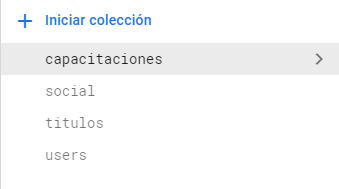
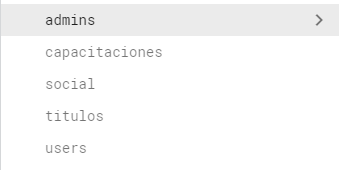
admin

diff --git a/src/app/admin/dashboard/dashboard.component.ts b/src/app/admin/dashboard/dashboard.component.ts
@@ -6,6 +6,7 @@ import { MatSort } from '@angular/material/sort';
 import { MatTableDataSource } from '@angular/material/table';
 import { Subject, combineLatest } from 'rxjs';
 import { Titulos } from 'src/app/shared/interfaces/titulos';
+import { User } from 'src/app/shared/interfaces/user';
 import { AuthService } from 'src/app/shared/services/auth.service';
 import { FirestoreService } from 'src/app/shared/services/firestore.service';
 import { MiscService } from 'src/app/shared/services/misc.service';
@@ -46,8 +47,15 @@ export class DashboardComponent implements OnInit, AfterViewInit {
   ) {}
 
   async ngOnInit(): Promise<void> {
-    this.titulos = await this.firestoreSvc.getTitulos();
-    this.dataSource = new MatTableDataSource(this.titulos);
+    const user: User = JSON.parse(localStorage.getItem('user'));
+    let admin: boolean = await this.miscSvc.getAdmin(user.email);
+    if (admin) {
+      this.titulos = await this.firestoreSvc.getTitulos();
+      this.dataSource = new MatTableDataSource(this.titulos);
+    } else {
+      let hayUnUsuario: string = await this.miscSvc.checkIfUserIsLogged();
+      await this.miscSvc.notAllowed(hayUnUsuario);
+    }
   }
 
   ngAfterViewInit() {
@@ -176,10 +184,10 @@ export class DashboardComponent implements OnInit, AfterViewInit {
     await this.firestoreSvc.eliminarTitulo(titulo);
     let indice: number;
     for (let i = 0; i < this.titulos.length; i++) {
-      if(this.titulos[i].titulo == titulo) {
-        indice = i
+      if (this.titulos[i].titulo == titulo) {
+        indice = i;
         break;
-      } ;
+      }
     }
     console.log(titulo, indice);
     if (indice > -1) {

diff --git a/src/app/admin/dashboard/dashboard.component.html b/src/app/admin/dashboard/dashboard.component.html
@@ -159,7 +159,7 @@
     <mat-card class="col-12 offset-md-2 col-md-8 mb-4">
       <div class="container">
         <mat-form-field>
-          <mat-label>Filter</mat-label>
+          <mat-label>Filtro</mat-label>
           <input matInput (keyup)="applyFilter($event)" placeholder="Ex. Mia" #input>
         </mat-form-field>
       </div>
@@ -266,13 +266,13 @@
         <div class="col-12">
           <div class="row">
             <div class="col-auto ml-4">
-              <input type="file" class="form-control-file" id="inputFile" (change)="convertFile($event)" />
+              <input type="file" class="form-control-file vertical-align" id="inputFile" (change)="convertFile($event)" />
             </div>
             <div class="col-auto">
-              <button (click)="subirArchivo()" class="">Subir</button>
+              <button (click)="subirArchivo()" class="btn vertical-align">Subir</button>
             </div>
             <div class="col-auto">
-              <a [href]="'../../../assets/titulos.csv'">
+              <a [href]="'../../../assets/titulos.csv'" class="vertical-align">
                 Descargue una plantilla para los títulos
               </a>
             </div>

diff --git a/src/app/shared/services/misc.service.ts b/src/app/shared/services/misc.service.ts
@@ -90,6 +90,11 @@ export class MiscService {
     });
   }
 
+  async getAdmin(email): Promise<boolean> {
+    const dataAdmin = await this.angularFirestore.collection('admins').doc(email).get().toPromise();
+    return dataAdmin.exists
+  }
+
   async checkIfUserIsLogged(): Promise<string> {
     await this.getUserFirebase();
     await this.getUserAndUID();
@@ -104,9 +109,7 @@ export class MiscService {
       if (!userFirebase.emailVerified) {
         return 'wait-verification';
       } else {
-        if (user.admin) {
-          return 'admin';
-        } else if (user.empresa && uid) {
+        if (user.empresa && uid) {
           return 'empresa';
         } else if (!user.empresa && uid) {
           return 'egresado';

diff --git a/src/app/admin/agregar-titulo/agregar-titulo.component.html b/src/app/admin/agregar-titulo/agregar-titulo.component.html
@@ -55,7 +55,7 @@
     </div>
     <div class="row">
       <div class="col-6">
-        <mat-form-field class="full-width-height mt-2">
+        <mat-form-field class="full-width-height">
           <mat-label>Año de Egreso</mat-label>
           <mat-select formControlName="yearDeEgreso">
             <mat-option selected="selected" hidden value="">Elija una opción</mat-option>
@@ -84,7 +84,7 @@
     <mat-card-actions class="mb-3">
       <div class="row">
         <div class="alinear-centro mt-4 center">
-          <button type="submit" class="center">Agregar</button>
+          <button type="submit" class="center btn">Agregar</button>
         </div>
       </div>
     </mat-card-actions>

diff --git a/src/app/auth/login/login.component.html b/src/app/auth/login/login.component.html
@@ -54,7 +54,7 @@
       <mat-card-actions class="mb-5">
         <div class="offset-3 col-6">
           <div class="alinear-centro mt-4">
-            <button type="submit" class="btn btn-dark btn-block alinear-centro">Iniciar Sesion</button>
+            <button type="submit" class="btn btn-dark btn-block alinear-centro">Iniciar Sesión</button>
           </div>
         </div>
         <div class="col-12 mt-4">

diff --git a/src/app/admin/dashboard/dashboard.component.scss b/src/app/admin/dashboard/dashboard.component.scss
@@ -92,7 +92,7 @@ tr.mat-row, tr.mat-footer-row {
   -ms-user-select: none;
   user-select: none;
   border: 1px solid transparent;
-  padding: 0.55rem 2.25rem;
+  padding: 0.1rem 2.25rem;
   font-size: 1rem;
   line-height: 1.5;
   border-radius: 1rem;

diff --git a/src/app/admin/agregar-titulo/agregar-titulo.component.scss b/src/app/admin/agregar-titulo/agregar-titulo.component.scss
@@ -71,7 +71,7 @@
   -ms-user-select: none;
   user-select: none;
   border: 1px solid transparent;
-  padding: 0.55rem 2.25rem;
+  padding: 0.5rem 2.75rem;
   font-size: 1rem;
   line-height: 1.5;
   border-radius: 1rem;

diff --git a/README.md b/README.md
@@ -90,7 +90,6 @@ Una vez registrados, ambos tipos de usuario van a poder buscar a otros usuarios 
 - [x] Contacto entre egresados
 - [x] Busqueda de egresados
 - [x] Agregar Experiencias
+- [x] Administrador
 - [ ] Redes Sociales
-- [ ] Administrador (Paginacion y acceso)
-- [ ] Errores Ortograficos
 - [ ] Mensaje de error
